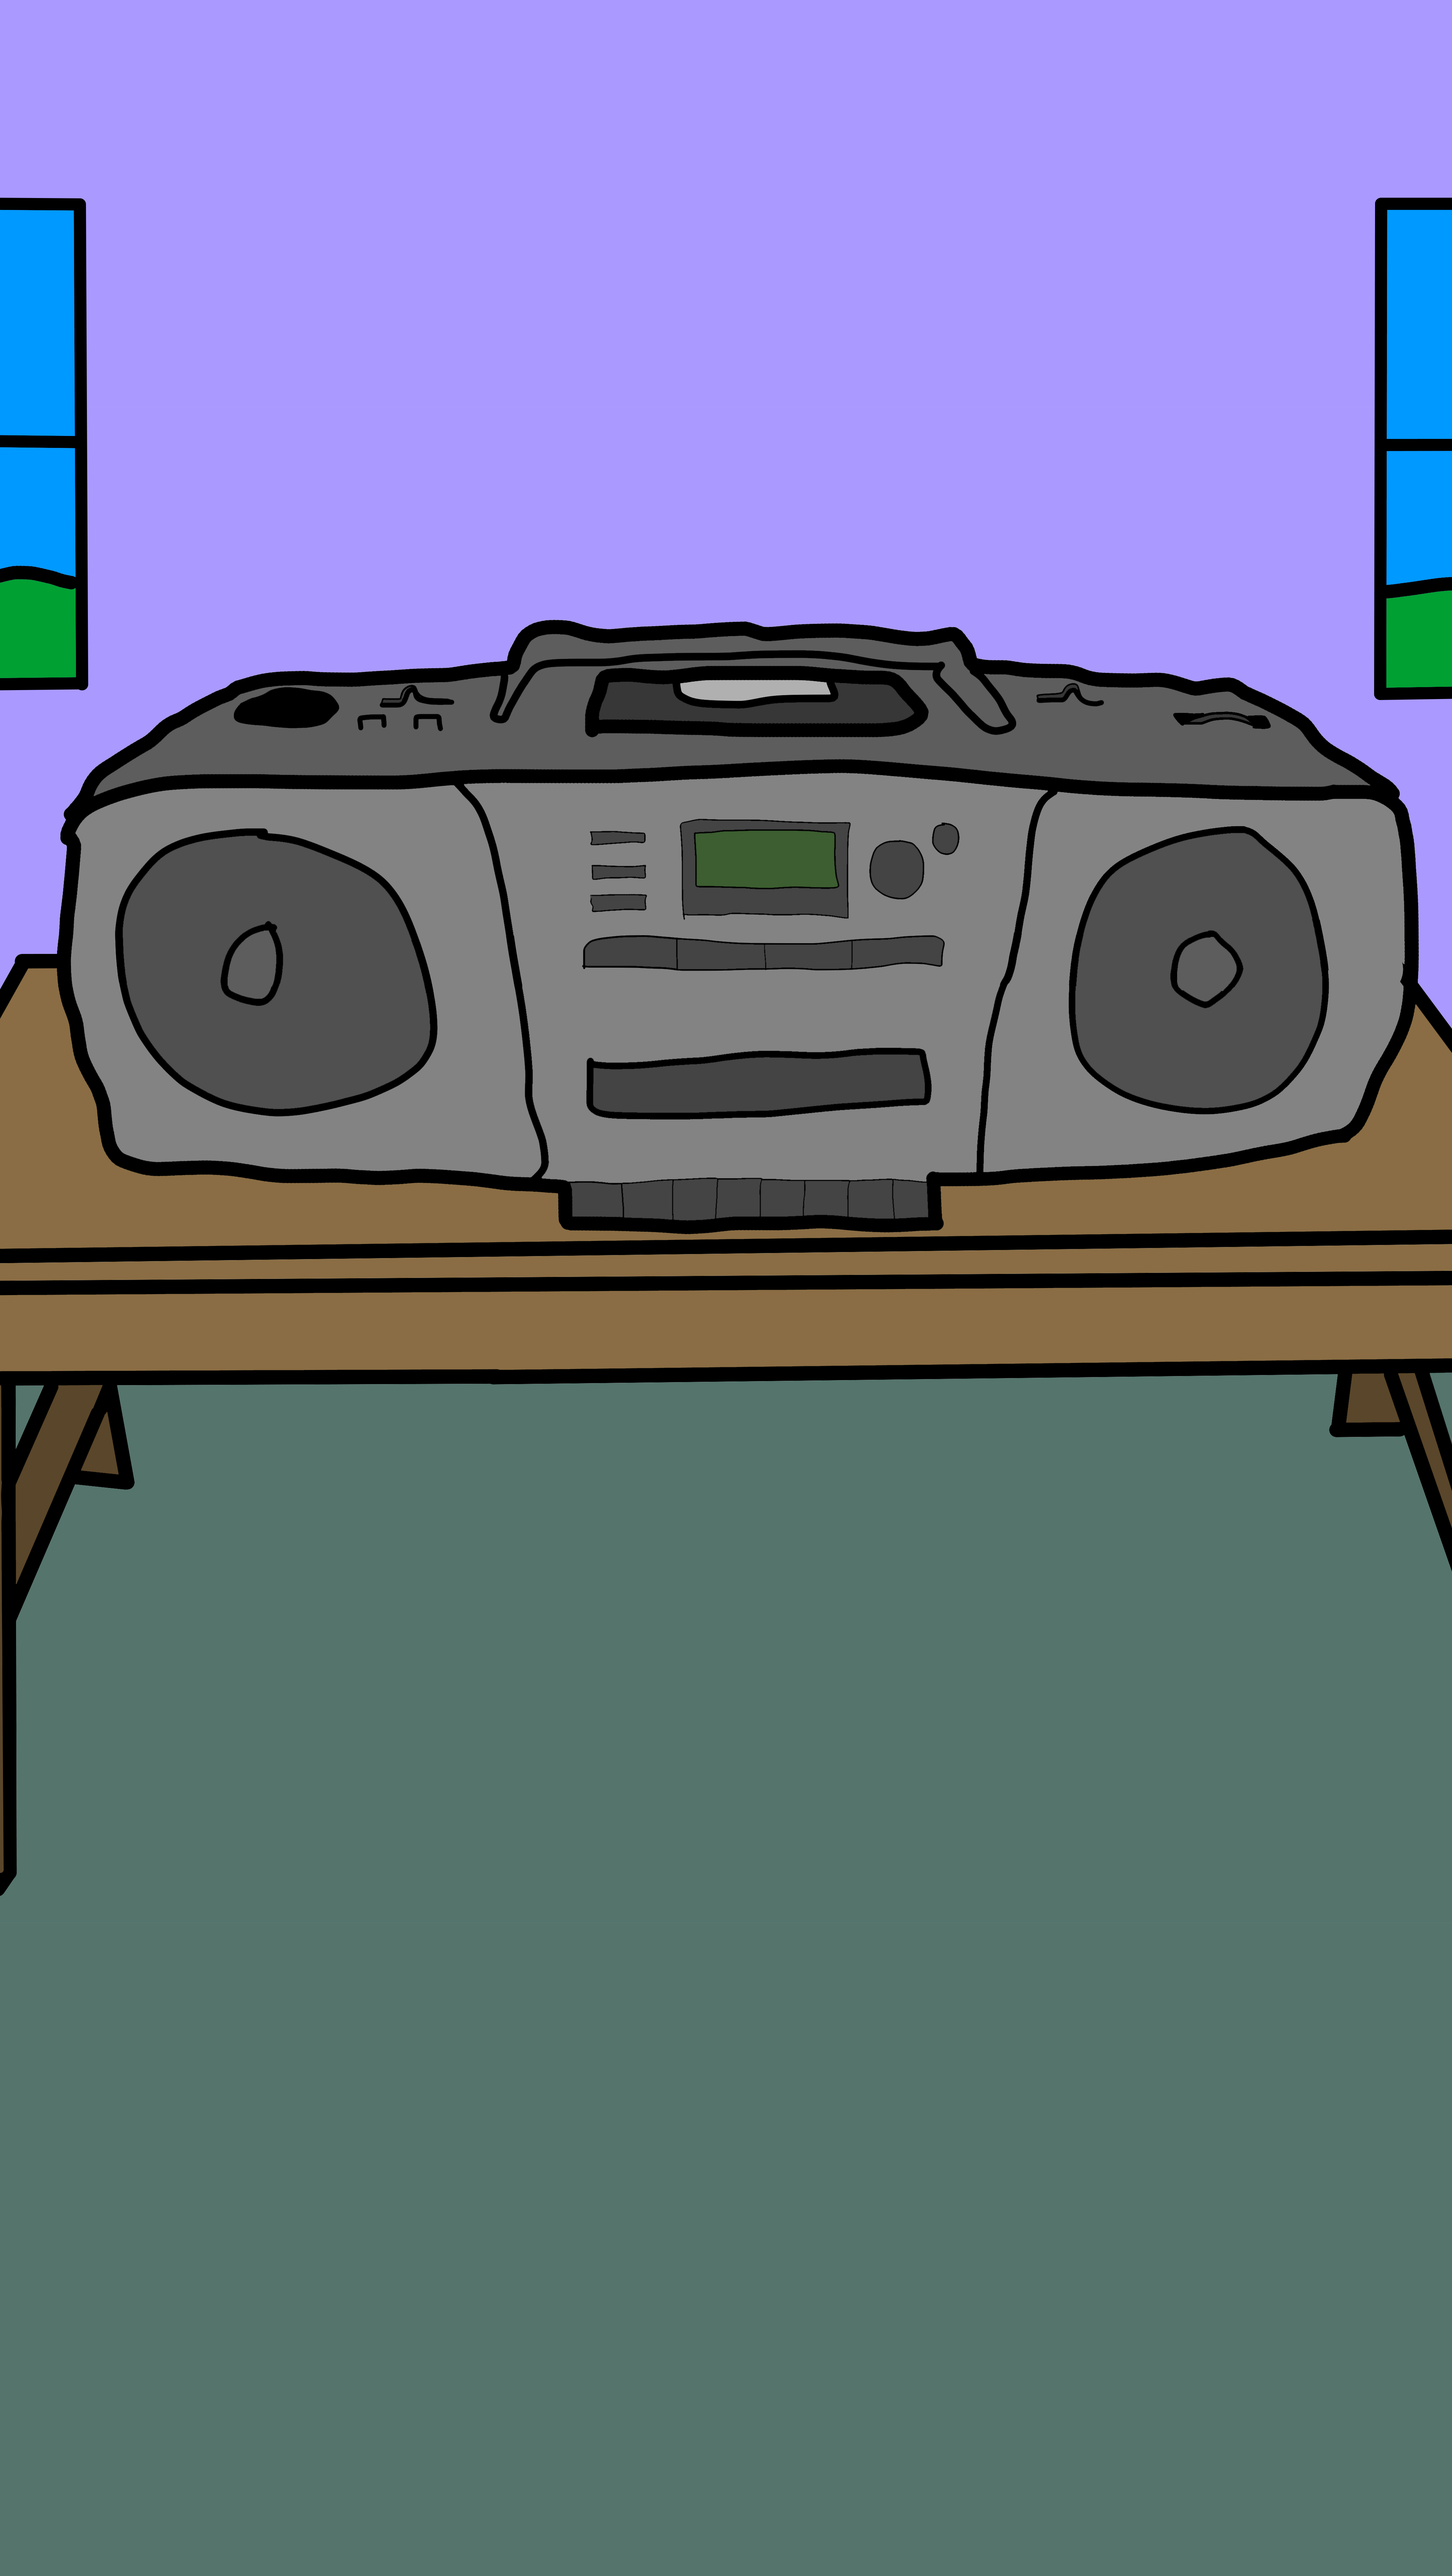
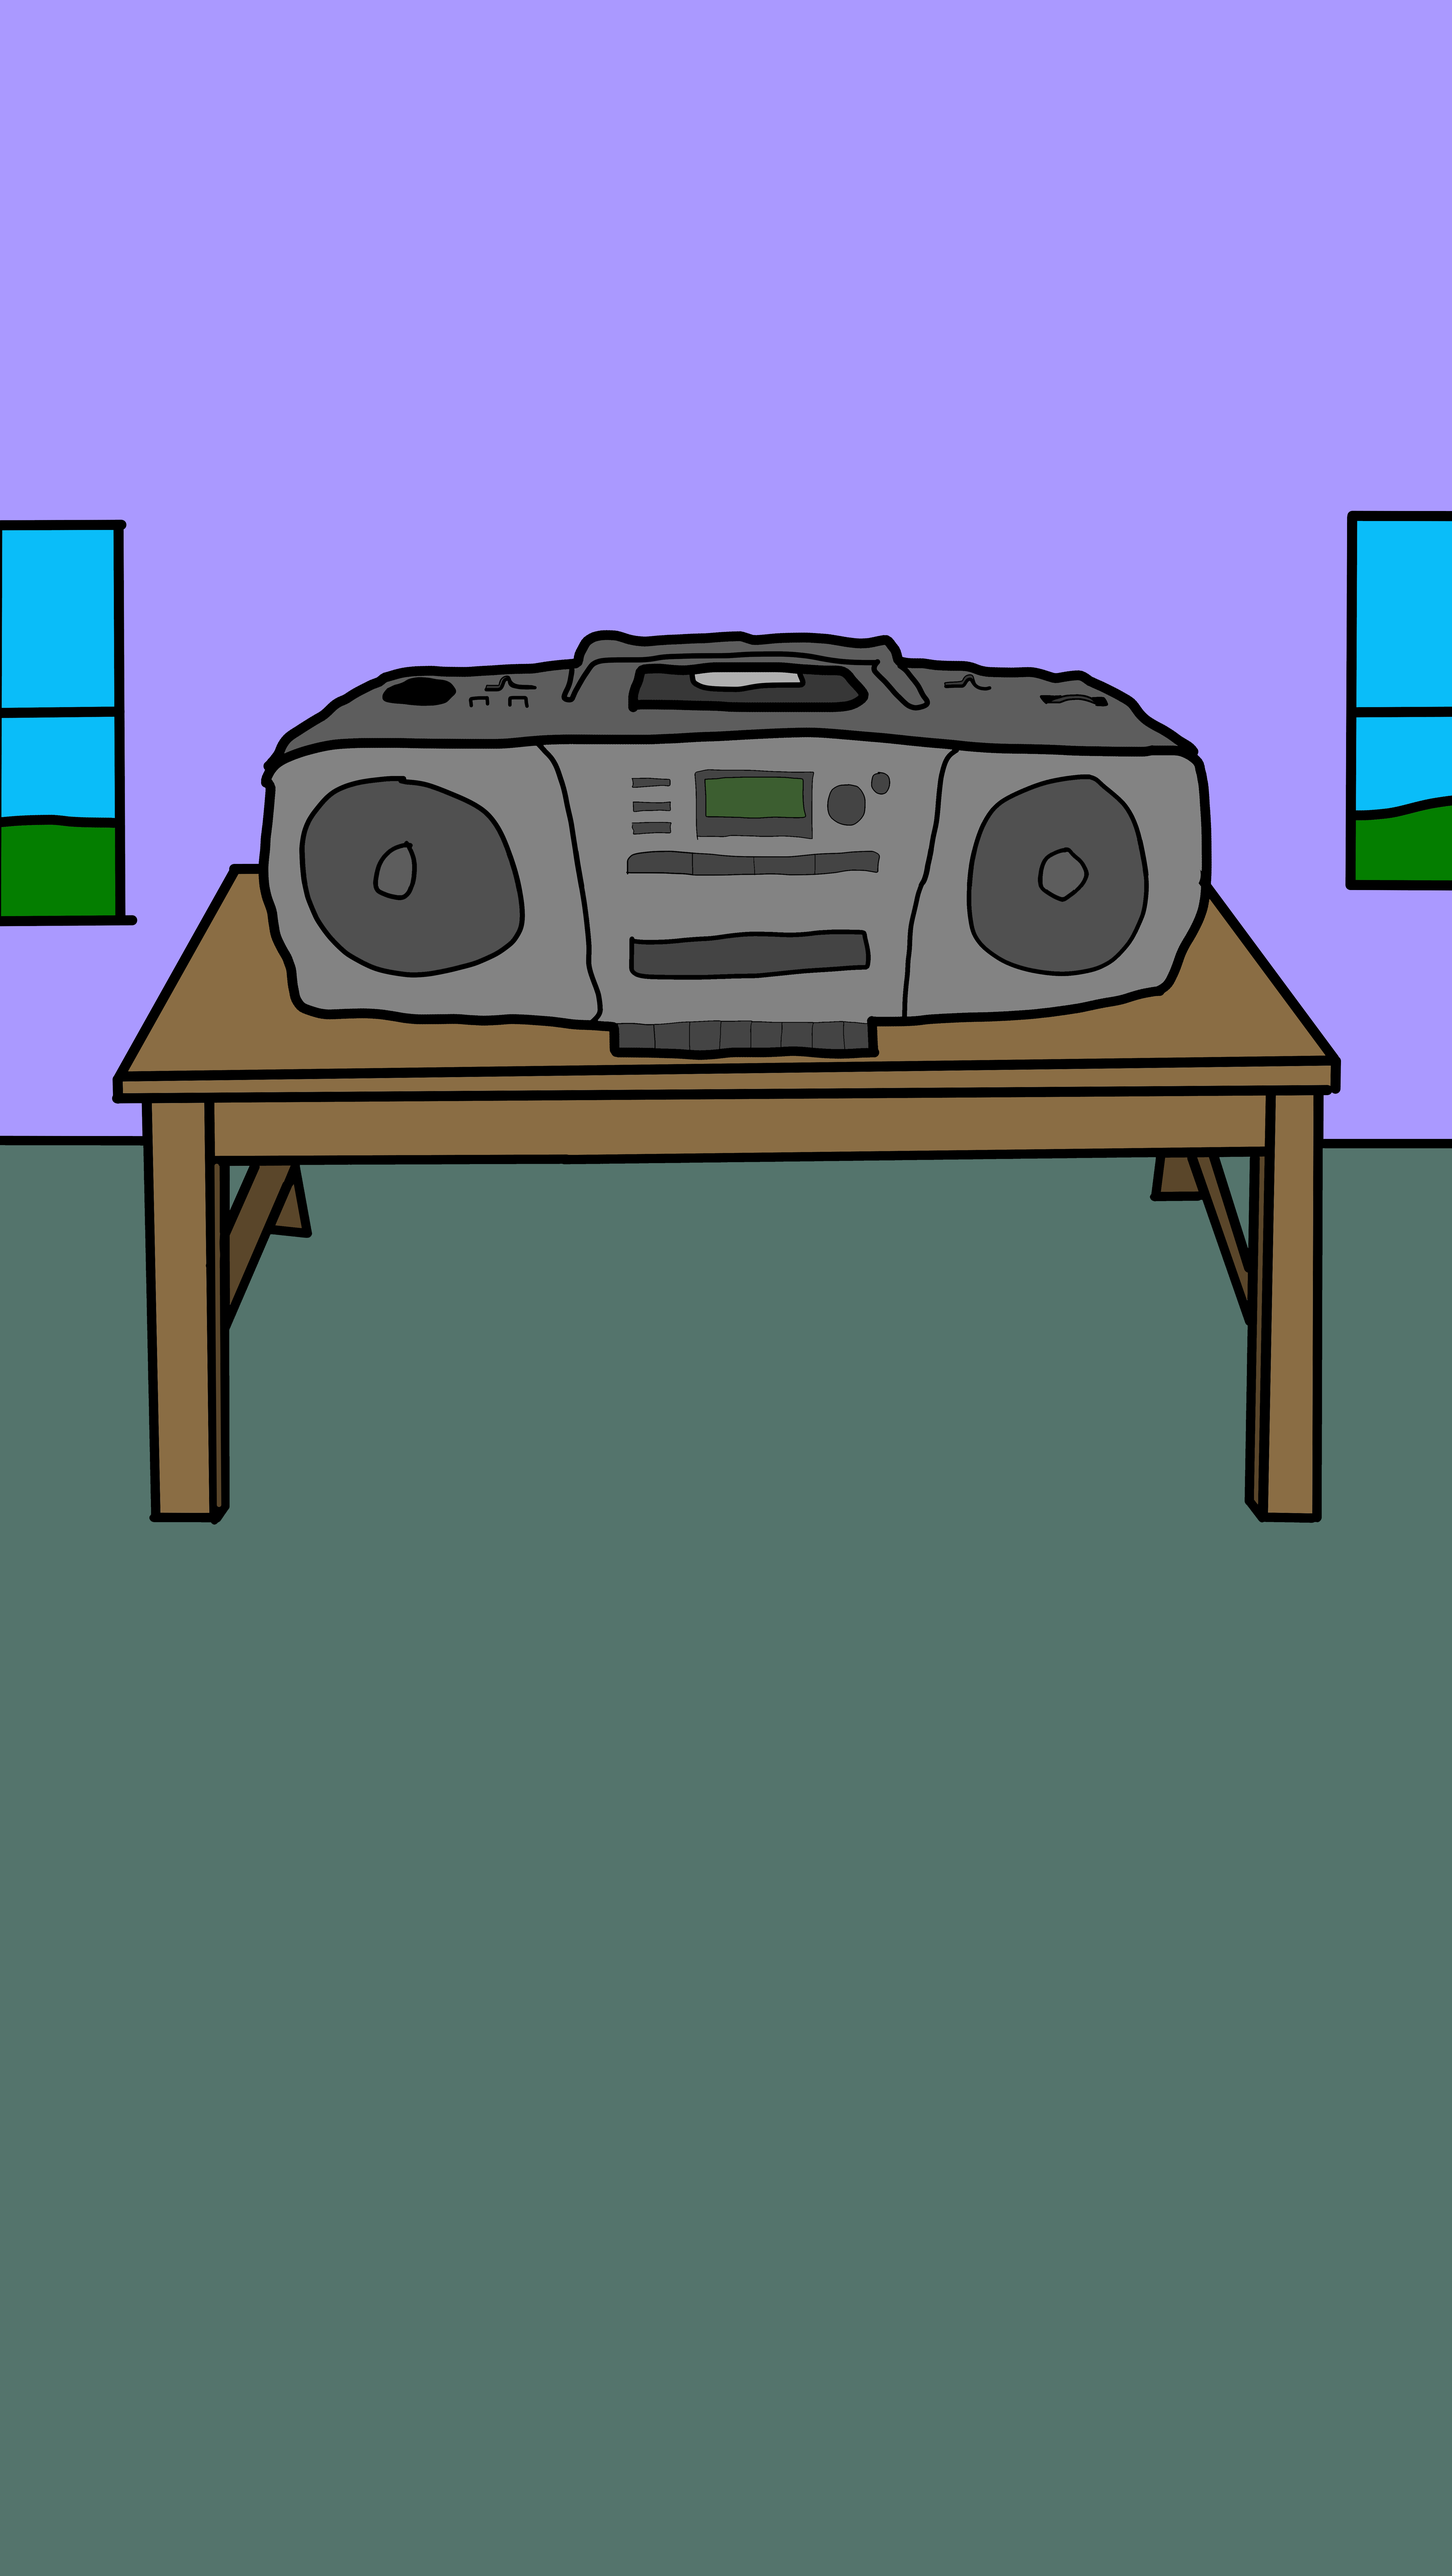
Use roomier mobile Music scene

Changed region(s): [[0.0, 0.0625, 1.0, 0.75]]

diff --git a/music.html b/music.html
@@ -129,9 +129,9 @@
     }
     .boombox-overlay {
       /* Matched separately to the portrait illustration. */
-      left: 0.1108%;
-      top: 23.25%;
-      width: 101.3079%;
+      left: 15.1851%;
+      top: 23.875%;
+      width: 70.828%;
     }
   }
 </style>
